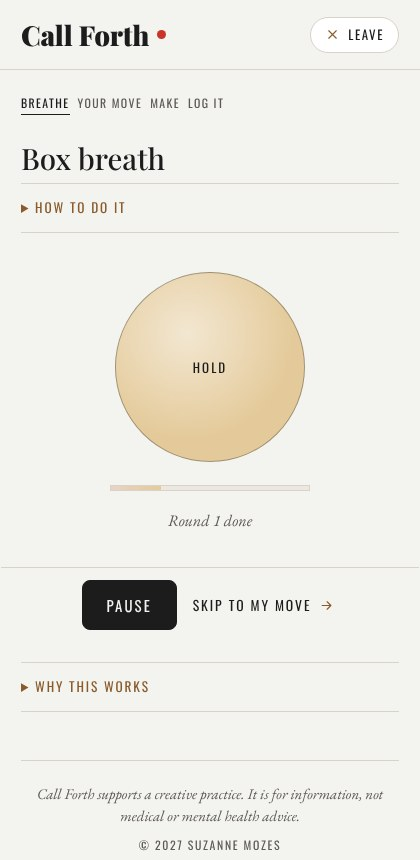
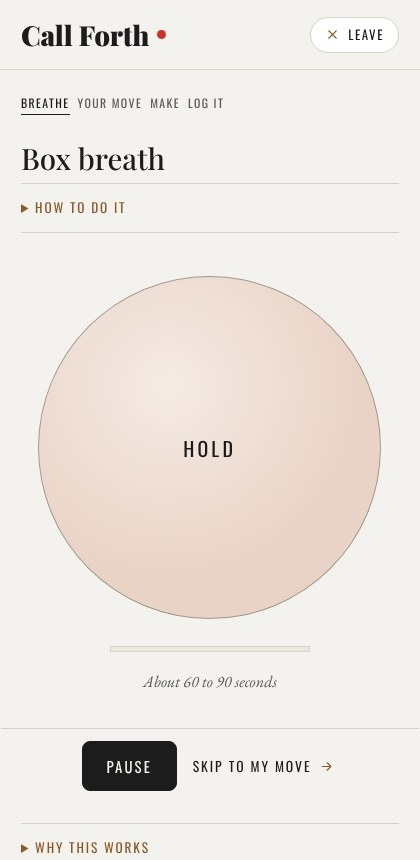
Beta feedback: bigger circle, chime on Done, choose another breath, verdigris clearing lines
Circle doubled (min(400px, 86vw)). Terra chime moves to the breath's Done.
Studio members can pick one of two other breaths per block.
Clearing lines arrive in verdigris at 0.6, 5 and 9.5s and soften to gray; tap line after the last softens.

Claude-Session: https://claude.ai/code/session_01AC3uPqKtQyPW92GmPrk1JA

Changed region(s): [[0.0929, 0.3023, 0.9286, 0.7558], [0.031, 0.8465, 0.8976, 0.9977], [0.031, 0.786, 0.65, 0.8163]]

diff --git a/prototype/index.html b/prototype/index.html
@@ -134,15 +134,23 @@
   .crumbs { display: flex; gap: 8px; flex-wrap: wrap; margin-bottom: 26px; }
   .crumbs span { font-family: var(--l); text-transform: uppercase; letter-spacing: .12em; font-size: .62rem; color: var(--muted); border-bottom: 1px solid transparent; padding-bottom: 2px; }
   .crumbs span.on { color: var(--charcoal); border-bottom-color: var(--charcoal); }
+  .alt-breath { text-align: center; margin: -14px 0 24px; }
+  .alt-open { margin-top: 2px; }
+  .alt-label { font-family: var(--l); font-size: .68rem; letter-spacing: .16em; text-transform: uppercase; color: var(--muted); margin-bottom: 12px; }
+  .alt-cards { display: grid; grid-template-columns: 1fr 1fr; gap: 12px; text-align: left; margin-bottom: 6px; }
+  .alt-card { font: inherit; color: inherit; cursor: pointer; background: var(--panel); border: 1px solid var(--stone); padding: 16px 18px; text-align: left; }
+  .alt-card:hover, .alt-card:focus-visible { border-color: var(--charcoal); }
+  .alt-card .t { font-family: var(--h); font-size: 1.15rem; line-height: 1.2; }
+  .alt-card .d { font-size: .95rem; color: var(--muted); margin-top: 4px; }
   .breath { display: flex; flex-direction: column; align-items: center; gap: 18px; margin: 34px 0; }
-  .circle { width: 200px; height: 200px; border: 1px solid var(--charcoal); border-radius: 50%; display: flex; align-items: center; justify-content: center; transform: scale(.6); transition: transform 4s ease-in-out; background: var(--panel); }
+  .circle { width: min(400px, 86vw); height: min(400px, 86vw); border: 1px solid var(--charcoal); border-radius: 50%; display: flex; align-items: center; justify-content: center; transform: scale(.6); transition: transform 4s ease-in-out; background: var(--panel); }
   /* The circle carries the timer bar's dawn-to-dusk colors: it starts blush and deepens round by round toward dusk blue */
   .circle { background-color: #EFE3DA; background-image: radial-gradient(circle at 38% 32%, rgba(255,255,255,.55), rgba(255,255,255,0) 62%); border-color: rgba(28,28,28,.35);
     transition-property: transform, background-color; }
   body.dark .circle { filter: brightness(.82) saturate(.9); border-color: rgba(237,233,226,.25); }
   body.dark .circle span { color: #1C1C1C; }
-  .circle span { font-family: var(--l); text-transform: uppercase; letter-spacing: .16em; font-size: .72rem; }
-  .circle span.count { font-family: var(--h); font-size: 3.4rem; letter-spacing: 0; line-height: 1; }
+  .circle span { font-family: var(--l); text-transform: uppercase; letter-spacing: .16em; font-size: 1.1rem; }
+  .circle span.count { font-family: var(--h); font-size: 6rem; letter-spacing: 0; line-height: 1; }
   details { border-top: 1px solid var(--stone); border-bottom: 1px solid var(--stone); padding: 14px 0; margin: 20px 0; }
   summary { cursor: pointer; font-family: var(--l); text-transform: uppercase; letter-spacing: .14em; font-size: .7rem; color: var(--bronze); }
   details p { margin-top: 12px; }
@@ -155,8 +163,10 @@
   .cue { cursor: pointer; padding: 10px 0 18px; }
   .cue1 .big { font-family: var(--h); font-weight: 900; font-size: clamp(3rem, 11vw, 5.6rem); line-height: 1.02; letter-spacing: -.01em; margin: 0; }
   .cue1 .small { font-family: var(--b); font-style: italic; font-size: clamp(1.2rem, 3.4vw, 1.6rem); color: var(--muted); margin: 22px 0 0; }
-  .cue2 p { font-family: var(--b); font-style: italic; font-weight: 400; font-size: clamp(2rem, 6.6vw, 3.5rem); line-height: 1.15; margin: 0 0 .45em; opacity: 0; transform: translateY(6px); transition: opacity 1.4s ease, transform 1.4s ease; }
+  .cue2 p { font-family: var(--b); font-style: italic; font-weight: 400; font-size: clamp(2rem, 6.6vw, 3.5rem); line-height: 1.15; margin: 0 0 .45em; opacity: 0; transform: translateY(6px); color: #2E8A7E; transition: opacity 1.4s ease, transform 1.4s ease, color 1.6s ease; }
   .cue2 p.in { opacity: 1; transform: none; }
+  .cue2 p.past { color: #B4AEA5; }
+  body.dark .cue2 p { color: #6CC0B3; } body.dark .cue2 p.past { color: #6B655D; }
   .cue .hint { font-family: var(--l); font-style: normal; font-size: .72rem; letter-spacing: .16em; text-transform: uppercase; color: var(--muted); margin-top: 2.2em; transition: opacity 1.2s ease; }
   .cue2 { cursor: default; } .cue2 .hint { opacity: 0; } .cue2.ready { cursor: pointer; } .cue2.ready .hint { opacity: 1; }
   .prompt .label { font-size: .9rem; letter-spacing: .2em; }
@@ -427,6 +437,15 @@
           <div class="circle" id="circle"><span id="circle-word">Ready</span></div>
           <div class="breath-progress"><span id="audio-fill"></span></div>
           <div class="note" id="breath-count">About 60 to 90 seconds</div>
+        </div>
+        <!-- Studio members only: two other breaths for this block -->
+        <div class="alt-breath" id="alt-breath" style="display:none">
+          <button class="pill" id="alt-toggle" onclick="openAltBreaths()">Prefer a different breath? <svg class="ic" viewBox="0 0 24 24" aria-hidden="true"><path d="M6 9l6 6 6-6"/></svg></button>
+          <div class="alt-open" id="alt-open" style="display:none">
+            <div class="alt-label">Two other breaths for today</div>
+            <div class="alt-cards" id="alt-cards"></div>
+            <button class="quiet" id="alt-keep" onclick="keepBreath()">Keep this breath</button>
+          </div>
         </div>
         <div class="actions thumb" style="justify-content:center">
           <button class="btn" id="breath-btn" onclick="toggleBreath()">Pause</button>
@@ -1306,18 +1325,21 @@ async function keepAwake(on){
 }
 document.addEventListener('visibilitychange', () => { if (document.visibilityState === 'visible' && document.body.classList.contains('focus')) { state.wake = null; keepAwake(true); } });
 /* Your move: show the cue, then hand over to the prompt (CSS does the timing). */
-/* Your move, in three stages. Stage 1 for 4s (tap to go on sooner). Stage 2 holds at least 15s and can't be tapped past:
-   its three lines arrive at 0.6s, 4s and 7.5s, and at 15s "Tap when you're ready" appears and it waits for that tap. Then 3 stays.
+/* Your move, in three stages. Stage 1 for 4s (tap to go on sooner). Stage 2 can't be tapped past: its three lines arrive
+   in verdigris at 0.6s, 5s and 9.5s, each earlier line softening to light gray as the next arrives; the last softens 10s
+   after it arrives (19.5s), and then "Tap when you're ready" appears and it waits for that tap. Then 3 stays.
    A different Koshi chime marks each stage: Terra (ground), Aqua (clear), Ignis (begin). Plays once per session;
    coming back from "Try something else" goes straight to the move. */
-const CUE_CHIMES = ['terra','aqua','ignis'], CUE_HOLD = 4000, CLEAR_MIN = 15000;
+const CUE_CHIMES = ['terra','aqua','ignis'], CUE_HOLD = 4000, CLEAR_LINES = [600, 5000, 9500], CLEAR_LAST = 10000;
 function cueShow(n){
   state.cueStage = n; (state.cueTs || []).forEach(clearTimeout); state.cueTs = [];
   [1,2,3].forEach(i => $('cue'+i).classList.toggle('on', i === n));
-  if (state.cueChime !== false) koshiChime(CUE_CHIMES[n-1]);
+  // Terra marks the end of the breath ('Done'); stage 1 only plays it when the breath was skipped.
+  if (state.cueChime !== false && !(n === 1 && state.doneChimeSid === state.sid)) koshiChime(CUE_CHIMES[n-1]);
   if (n === 2) { const c = $('cue2'), ps = c.querySelectorAll('p'); c.classList.remove('ready'); ps.forEach(p => p.classList.remove('in'));
-    [600, 4000, 7500].forEach((ms, i) => state.cueTs.push(setTimeout(() => ps[i] && ps[i].classList.add('in'), ms)));
-    state.cueTs.push(setTimeout(() => c.classList.add('ready'), CLEAR_MIN)); }
+    ps.forEach(p => p.classList.remove('past'));
+    CLEAR_LINES.forEach((ms, i) => state.cueTs.push(setTimeout(() => { if (ps[i-1]) ps[i-1].classList.add('past'); if (ps[i]) ps[i].classList.add('in'); }, ms)));
+    state.cueTs.push(setTimeout(() => { const last = ps[ps.length-1]; if (last) last.classList.add('past'); c.classList.add('ready'); }, CLEAR_LINES[CLEAR_LINES.length-1] + CLEAR_LAST)); }
   if (n === 1) state.cueTs.push(setTimeout(() => cueShow(2), CUE_HOLD));
   track('move_stage', { stage: n });
 }
@@ -1351,13 +1373,43 @@ function startBreath(){
     c.style.backgroundColor = duskColor((rounds + i/pat.length) / (BREATHS[state.breath].rounds || 6));
     c.style.transform = word === 'Sip' ? 'scale(1.05)' : word.startsWith('In') ? 'scale(.95)' : word === 'Hold' ? c.style.transform : 'scale(.6)';
     i = (i+1) % pat.length; if (i === 0) { rounds++; $('breath-count').textContent = `Round ${rounds} done`; $('audio-fill').style.width = (rounds/(BREATHS[state.breath].rounds||6)*100)+'%'; }
-    if (rounds >= (BREATHS[state.breath].rounds || 6)) { stopBreath(); $('circle-word').textContent = 'Done'; setTimeout(()=>{ if(state.step==='breathe') setStep('move'); }, 1200); return; }
+    if (rounds >= (BREATHS[state.breath].rounds || 6)) { stopBreath(); $('circle-word').textContent = 'Done'; koshiChime('terra'); state.doneChimeSid = state.sid; setTimeout(()=>{ if(state.step==='breathe') setStep('move'); }, 1200); return; }
     state.btid = setTimeout(tick, secs*1000);
   };
   tick();
 }
 function stopBreath(){ state.breathing = false; clearTimeout(state.btid); if (state.breath) $('breath-btn').textContent = breathLabel(); }
 /* One breath per session. Studio members get the breath that has helped them most for this block; everyone else gets the block's breath. */
+/* Studio: two other breaths per block, chosen by intention [Suz to confirm]. If a member's learned breath is showing,
+   the block's own breath is offered first. Picking one restarts the countdown with that breath. */
+const ALT_BREATHS = { teeth:['exhale','belly'], blank:['exhale','box'], next:['box','vagal'], real:['lion','pursed'],
+  mood:['bee','box'], tired:['lion','box'], over:['bee','exhale'], under:['bee','box'] };
+const ALT_LINE = { box:'In 4, hold 4, out 4, hold 4. Steady and even.', vagal:'In, a sip more, then a long sigh out.', lion:'In, then a big "haaa." Shakes it loose.',
+  bee:'In, then a low hum out. Quiets the noise.', four78:'In 4, hold 7, out 8. Deeply settling.', belly:'In 4, out 6. Slow and low, into the belly.',
+  exhale:'In 4, out 8. Settles a keyed-up body.', pursed:'In 2, out 4 through pursed lips. Slows things down.' };
+function altBreaths(){
+  const blk = BLOCKS.find(b => b.id === state.block); if (!blk) return [];
+  let list = (ALT_BREATHS[blk.id] || []).slice();
+  if (blk.breath !== state.breath) list = [blk.breath, ...list];
+  return list.filter((b, i) => b !== state.breath && BREATHS[b] && list.indexOf(b) === i).slice(0, 2);
+}
+function renderAltBreath(){
+  const box = $('alt-breath'), alts = altBreaths();
+  box.style.display = (state.member && alts.length) ? 'block' : 'none';
+  $('alt-open').style.display = 'none'; $('alt-toggle').style.display = '';
+  $('alt-keep').textContent = 'Keep the ' + BREATHS[state.breath].short;
+  $('alt-cards').innerHTML = alts.map(b => `<button class="alt-card" onclick="switchBreath('${b}')"><div class="t">${BREATHS[b].name}</div><div class="d">${ALT_LINE[b] || ''}</div></button>`).join('');
+}
+function openAltBreaths(){
+  if (state.counting) cancelCountdown(); else if (state.breathing) stopBreath();
+  $('alt-toggle').style.display = 'none'; $('alt-open').style.display = 'block';
+  track('alt_breath_opened', { breath: state.breath });
+}
+function keepBreath(){ $('alt-open').style.display = 'none'; $('alt-toggle').style.display = ''; if (!state.breathStarted) autoBreath(); }
+function switchBreath(id){
+  track('breath_switched', { from: state.breath, to: id });
+  setBreath(id); renderAltBreath(); autoBreath();
+}
 function chooseBreath(block){
   const fallback = blockById(block).breath;
   if (!state.member || !state.showHistory) return fallback;
@@ -1374,6 +1426,7 @@ function setBreath(id){
   $('audio-fill').style.width = '0';
   $('circle-word').textContent = 'Ready'; $('circle').style.transform = 'scale(.6)'; $('circle').style.backgroundColor = ''; $('breath-count').textContent = 'About 60 to 90 seconds';
   $('breath-btn').textContent = breathLabel();
+  renderAltBreath();
 }
 
 /* try something else */

diff --git a/components/BreathCircle.tsx b/components/BreathCircle.tsx
@@ -10,7 +10,8 @@
  *   (blush -> ochre -> sage -> teal -> dusk blue), lit softly from the upper left.
  * - A small progress bar in the same palette fills one step per round; "Round N done" below.
  * - Main button: "Pause" (during the countdown or breath), then "Begin again" (replays the chime and restarts).
- * - When all rounds are done it shows "Done" and calls onComplete() after 1.2s.
+ * - When all rounds are done it shows "Done", plays the Terra chime (the cue that the page is about to change)
+ *   and calls onComplete() after 1.2s.
  * - Reduced motion: no growing or shrinking, the words and colors still guide the breath.
  *
  * Usage (the breath's timing comes from the app's content file, src/lib/content.ts,
@@ -100,7 +101,7 @@ export default function BreathCircle({ timing, onComplete, onSkip }: {
       if (i === 0) { r += 1; setRounds(r); }
       if (r >= b.rounds) {
         timer.current = window.setTimeout(() => {
-          setMode('done'); setWord('Done');
+          setMode('done'); setWord('Done'); playKoshi('terra');
           timer.current = window.setTimeout(() => doneRef.current(), 1200);
         }, secs * 1000);
         return;
@@ -143,7 +144,7 @@ export default function BreathCircle({ timing, onComplete, onSkip }: {
       <div
         aria-live="polite"
         style={{
-          width: 200, height: 200, borderRadius: '50%',
+          width: 'min(400px, 86vw)', height: 'min(400px, 86vw)', borderRadius: '50%',
           border: '1px solid rgba(28,28,28,.35)',
           backgroundColor: color,
           backgroundImage: 'radial-gradient(circle at 38% 32%, rgba(255,255,255,.55), rgba(255,255,255,0) 62%)',
@@ -153,8 +154,8 @@ export default function BreathCircle({ timing, onComplete, onSkip }: {
         }}
       >
         <span style={isCount
-          ? { fontFamily: '"Playfair Display", serif', fontSize: '3.4rem', lineHeight: 1, color: '#1C1C1C' }
-          : { fontFamily: 'Oswald, sans-serif', textTransform: 'uppercase', letterSpacing: '.16em', fontSize: '.72rem', color: '#1C1C1C' }}>
+          ? { fontFamily: '"Playfair Display", serif', fontSize: '6rem', lineHeight: 1, color: '#1C1C1C' }
+          : { fontFamily: 'Oswald, sans-serif', textTransform: 'uppercase', letterSpacing: '.16em', fontSize: '1.1rem', color: '#1C1C1C' }}>
           {word}
         </span>
       </div>

diff --git a/components/breaths.ts b/components/breaths.ts
@@ -93,3 +93,28 @@ export const BLOCK_BREATH = {
   "I'm understimulated": 'lion',
   "My inner critic is too loud": 'pursed', // later door, not shown yet
 };
+
+/** Studio members only: two other breaths offered for each block ("Prefer a different breath?"). [Suz to confirm]
+ *  If a member's learned breath is showing instead of the block's own, offer the block's own breath first. */
+export const ALT_BREATHS = {
+  "I'd rather pull my teeth out": ['exhale', 'belly'],
+  "I'm afraid of the white, blank space": ['exhale', 'box'],
+  "I don't know what comes next": ['box', 'vagal'],
+  "I'm not a real artist": ['lion', 'pursed'],
+  "I'm not in the mood": ['bee', 'box'],
+  "I'm exhausted": ['lion', 'box'],
+  "I'm overstimulated": ['bee', 'exhale'],
+  "I'm understimulated": ['bee', 'box'],
+};
+
+/** One short line for each breath on its choice card. */
+export const ALT_LINE = {
+  box: 'In 4, hold 4, out 4, hold 4. Steady and even.',
+  vagal: 'In, a sip more, then a long sigh out.',
+  lion: 'In, then a big "haaa." Shakes it loose.',
+  bee: 'In, then a low hum out. Quiets the noise.',
+  four78: 'In 4, hold 7, out 8. Deeply settling.',
+  belly: 'In 4, out 6. Slow and low, into the belly.',
+  exhale: 'In 4, out 8. Settles a keyed-up body.',
+  pursed: 'In 2, out 4 through pursed lips. Slows things down.',
+};

diff --git a/docs/App Brief.md b/docs/App Brief.md
@@ -6,7 +6,7 @@ The full written spec: every screen, rule, piece of content and tracked event. T
 - **Who it's for:** Writers, artists, musicians and makers who keep losing to the blank page, the mood or the critic.
 - **The one job:** Get a creator from blocked to making in minutes, matched to what's in the way today.
 - **Design principle:** spend as little time in the app as possible. The person makes one real choice (their block); Call Forth makes the rest. Goal: from opening the app to the timer running in two taps and under two minutes.
-- **Ease rules (from opening the app to the timer, with confidence):** returning artists open straight to Home (stay signed in on the device; sign in by emailed link, no password; installable on the phone's home screen and quick to load on a weak connection) · the breath starts by itself after a 3-second countdown · the move page first shows "Get your work open first.", then a 15-second pause to clear the work space, then the prompt · the screen stays awake for the whole session · on phones each step's main button sits at the bottom, in thumb reach · gentle fades between steps (off for reduced motion) · "Straight to making" for days they arrive ready · Suz's moves stay under 40 words, opening with a short instruction.
+- **Ease rules (from opening the app to the timer, with confidence):** returning artists open straight to Home (stay signed in on the device; sign in by emailed link, no password; installable on the phone's home screen and quick to load on a weak connection) · the breath starts by itself after a 3-second countdown · the move page first shows "Get your work open first.", then a pause of about 20 seconds to clear the work space, then the prompt · the screen stays awake for the whole session · on phones each step's main button sits at the bottom, in thumb reach · gentle fades between steps (off for reduced motion) · "Straight to making" for days they arrive ready · Suz's moves stay under 40 words, opening with a short instruction.
 - **First working version:** https://claude.ai/artifact/VH1qcHenhMRpKqCPX9Bz5L
 
 **Screens (version one)**
@@ -15,8 +15,8 @@ The full written spec: every screen, rule, piece of content and tracked event. T
 3. **Welcome (first time, and via "How it works"):** three steps: tell me what's in the way; breathe, then take your move; make the thing, then log it.
 4. **Home:** a greeting and a question that change every sign-on (see "Greetings and questions" below). The bronze greeting with their name is set larger than other labels (about 1rem Oswald capitals), with generous space (about 18px) before the question headline. Eight block cards: 3 free (no label), 5 studio (small label "Full studio" when locked, "Studio" for members; tapping a locked one goes to Studio). Under the question, one quiet italic line: "About two minutes from here to making." On every third visit (and only with log history on), one line from their own past log appears under that, in small italics with a bronze tag: "Rewrote the opening paragraph." YOU, LAST TUESDAY. Below the blocks, a verdigris "straight to making" link, a little larger than the other quiet labels: an italic Playfair phrase that changes every visit (never the same twice in a row) followed by "STRAIGHT TO MAKING →". The phrases: I feel pretty good today. · I'm in a good mood. · No complaints. · I've got oodles of energy. · Let's do this. · I've got this. It skips the block and breath and starts the timer at their usual length (logged as "Nothing in the way"). Nothing else to browse: no "coming soon" cards, no stats (those live in the Log). "How it works" lives in the footer.
 5. **Session (focus mode):** four steps with a step indicator. The menu disappears for the whole session; the header shows only the wordmark (not clickable) and a small "× Leave" pill at the top right. No upsells, locks or studio invitations appear inside a session. The screen stays awake for the whole session. On phones, each step's main button is pinned to the bottom of the screen. Steps fade in gently. The session pages never name the block they chose.
-   - **Breathe:** one breath, already chosen (studio members who've had a breath help with this block get that breath, with one quiet line above it: "Last time, the [breath] helped."). Breath name, how-to (after they've done that breath 3 times, the how-to folds into a small "How to do it"), animated circle with a small progress bar. The circle and its progress bar share the timer's dawn-to-dusk colors: the circle starts blush and deepens round by round through ochre and sage toward dusk blue, softly lit from the upper left, so the breath and the making feel like one arc. The breath starts by itself: the circle shows a large 3, 2, 1 with "Breathing with you in 3…", then begins (no voice). As the countdown begins, a soft Koshi wind chime plays, its tuning matched to the breath's intention: Box breath → Aria (air, mental clarity; A C E A B C E B), Vagal nerve breath → Terra (earth, grounding; G C E F G C E G), Lion's breath → Ignis (fire, transformation; G B D G B D G A), Bumble bee hum → Aqua (water, emotional release; A D F G A D F A), 4-7-8 breathing → Aqua, Diaphragmatic breathing → Terra, Extended exhale → Aqua, Pursed-lip breathing → Aria. Each is built in the browser (no sound files) an octave below the real chime: eight steel-rod notes, a soft pass of five notes over about two seconds that rings out by about 3.5 seconds, so it fills the countdown and fades as the breath begins. It plays quietly, softer than the timer's bowl. (Koshi's "grounding," "release," "clarity" and "transformation" describe each chime's mood, not proven effects; no health claims.) The main button reads "Pause" (after pausing: "Begin again"), "Skip to my move →" (quiet label), and a small collapsed "Why this works" with sources. When the breath ends, it moves on to Your move by itself. No choosing between breaths. Circle words follow each breath: In / Sip / Hold / Out / Haaa / Hum / Whoosh / Release; alternate nostril shows "In · left", "Out · right" and so on. Each breath has its own number of rounds.
-   - **Your move:** three stages, each alone on the screen, set large to catch the eye, each in its own typeface and marked by its own soft Koshi chime (the same browser-built chimes as the breath), so the eye and ear register that something new has arrived. Each stage fades out over about 0.6 seconds as the next fades and rises in. (1) **"Get your work open first."** in heavy Playfair Display (900 weight, about 3rem on a phone up to 5.6rem on a computer), with a smaller italic line beneath, "The file, the sketchbook, the instrument.", and a small "Tap when you're ready" label (Oswald capitals). Chime: Terra. It holds about 4 seconds, or a tap moves on sooner. (2) **Clearing the space**, in large italic EB Garamond (about 2rem on a phone up to 3.5rem), three lines arriving one at a time (at about 0.6, 4 and 7.5 seconds): "Close all the tabs that are open on your laptop." · "Put away your to-do lists." · "Take a moment to clear your work space." Chime: Aqua. It stays at least 15 seconds and can't be tapped past; at 15 seconds "Tap when you're ready" fades in, and it waits for that tap. (3) **Your move**: a larger "Your move" label, then the craft prompt for the block (under 40 words) in Fraunces (regular weight, about 2rem on a phone up to 3rem). Chime: Ignis. It stays. The stages fill most of the screen (about 60% of its height). The buttons stay in place the whole time, so someone ready can start at any stage: main button "My work is open. Start." (starts the timer immediately), or "Try something else". The sequence plays once per session: coming back from "Try something else" goes straight to the move, with no chimes. Leaving the step stops any chime still to come. With reduced motion the fades are instant.
+   - **Breathe:** one breath, already chosen (studio members who've had a breath help with this block get that breath, with one quiet line above it: "Last time, the [breath] helped."). Breath name, how-to (after they've done that breath 3 times, the how-to folds into a small "How to do it"), a large animated circle (about 400px across on a computer, nearly the full width of a phone: min(400px, 86vw); its words set large, the 3-2-1 countdown at about 6rem) with a small progress bar. The circle and its progress bar share the timer's dawn-to-dusk colors: the circle starts blush and deepens round by round through ochre and sage toward dusk blue, softly lit from the upper left, so the breath and the making feel like one arc. The breath starts by itself: the circle shows a large 3, 2, 1 with "Breathing with you in 3…", then begins (no voice). As the countdown begins, a soft Koshi wind chime plays, its tuning matched to the breath's intention: Box breath → Aria (air, mental clarity; A C E A B C E B), Vagal nerve breath → Terra (earth, grounding; G C E F G C E G), Lion's breath → Ignis (fire, transformation; G B D G B D G A), Bumble bee hum → Aqua (water, emotional release; A D F G A D F A), 4-7-8 breathing → Aqua, Diaphragmatic breathing → Terra, Extended exhale → Aqua, Pursed-lip breathing → Aria. Each is built in the browser (no sound files) an octave below the real chime: eight steel-rod notes, a soft pass of five notes over about two seconds that rings out by about 3.5 seconds, so it fills the countdown and fades as the breath begins. It plays quietly, softer than the timer's bowl. (Koshi's "grounding," "release," "clarity" and "transformation" describe each chime's mood, not proven effects; no health claims.) The main button reads "Pause" (after pausing: "Begin again"), "Skip to my move →" (quiet label), and a small collapsed "Why this works" with sources. When the breath ends, the circle says "Done" and the Terra chime plays, the signal that the page is about to change; about a second later it moves on to Your move by itself. **Choosing another breath (studio members only):** under the circle, one small pill, "Prefer a different breath? ⌄". Tapping it pauses the breath and opens "Two other breaths for today": two cards, each with the breath's name and one short line (e.g. Extended exhale: "In 4, out 8. Settles a keyed-up body."), and a quiet "Keep the [breath]" that closes it and carries on. Choosing a card switches to that breath and starts its 3-2-1 countdown. The two come from a set pair for each block, chosen by intention (teeth: Extended exhale, Diaphragmatic · blank space: Extended exhale, Box · what comes next: Box, Vagal · not a real artist: Lion's, Pursed-lip · not in the mood: Bumble bee hum, Box · exhausted: Lion's, Box · overstimulated: Bumble bee hum, Extended exhale · understimulated: Bumble bee hum, Box) [Suz to confirm]; if a member's learned breath is showing, the block's own breath is offered first. Free users don't see the pill. Circle words follow each breath: In / Sip / Hold / Out / Haaa / Hum / Whoosh / Release; alternate nostril shows "In · left", "Out · right" and so on. Each breath has its own number of rounds.
+   - **Your move:** three stages, each alone on the screen, set large to catch the eye, each in its own typeface and marked by its own soft Koshi chime (the same browser-built chimes as the breath), so the eye and ear register that something new has arrived. Each stage fades out over about 0.6 seconds as the next fades and rises in. (1) **"Get your work open first."** in heavy Playfair Display (900 weight, about 3rem on a phone up to 5.6rem on a computer), with a smaller italic line beneath, "The file, the sketchbook, the instrument.", and a small "Tap when you're ready" label (Oswald capitals). Chime: none here when they arrive from a finished breath (its "Done" already rang Terra); Terra plays here only if they skipped the breath. It holds about 4 seconds, or a tap moves on sooner. (2) **Clearing the space**, in large italic EB Garamond (about 2rem on a phone up to 3.5rem), three lines arriving one at a time (at about 0.6, 5 and 9.5 seconds): "Close all the tabs that are open on your laptop." · "Put away your to-do lists." · "Take a moment to clear your work space." Each new line arrives in verdigris (#2E8A7E; #6CC0B3 in the dark room), and as the next one arrives, the earlier line softens to light gray (#B4AEA5; #6B655D in the dark room) over about 1.6 seconds, so it's always clear which line is new. The last line softens 10 seconds after it arrives (about 19.5 seconds in); then "Tap when you're ready" fades in, and it waits for that tap. Chime: Aqua. It can't be tapped past before then. (3) **Your move**: a larger "Your move" label, then the craft prompt for the block (under 40 words) in Fraunces (regular weight, about 2rem on a phone up to 3rem). Chime: Ignis. It stays. The stages fill most of the screen (about 60% of its height). The buttons stay in place the whole time, so someone ready can start at any stage: main button "My work is open. Start." (starts the timer immediately), or "Try something else". The sequence plays once per session: coming back from "Try something else" goes straight to the move, with no chimes. Leaving the step stops any chime still to come. With reduced motion the fades are instant.
    - **Something else (its own page):** "Two ways in. Pick one." Two large choice cards: one body option and one mind option, suited to their block (the page doesn't name it), never repeating what they've been offered this session. Free users choose from Another prompt, Mantra and Exercise reset; studio members from all 14. No locked cards, no reshuffle. Choosing a card opens its content below (audio in Suz's voice where it has some, instructions, then "When you're done, get your work open." and "My work is open. Start.", which starts the timer). "← Back to my move" (quiet label) sits at the top of the page. One line at the bottom: "Why only two? When you're stuck, fewer choices make it easier to start." (The full research note lives on the About page.)
    - **Make:** the timer is already running when they arrive, at their usual length (default 15 min) and sound. A warm singing-bowl tone marks the start (made in the browser, no sound file: a low 220 Hz note with gently beating partials, a slow 0.18-second bloom, a long 5-second fade and softened highs, played quietly). They can show the clock (big numbers) or the dawn-to-dusk bar: a wide band, about 64px tall, across the screen under "Make the thing." that fills left to right as time passes, its color shifting from blush through ochre and sage to dusk blue (#E9D3C6 → #E3C892 → #B9C49A → #8DBAB0 → #6E9FAE), with a soft feathered leading edge and a small italic line beneath ("9 min left"; hidden for people who've turned off their numbers, so the color alone tells the time). People who've turned off "Show my numbers" always get the bar. In the dark room the bar is gently dimmed. When time is up the same bowl sounds twice, softer, 1.6 seconds apart, the clock disappears, and the page says "Time." and "Keep going if you're in it." with Keep going (solid) and I'm done (outline). Nothing moves on by itself. Keep going switches to a quiet bronze count-up past the planned length, marked "Still going" (in bar view the bar stays full and the line beneath reads "Still going"); the log records the real minutes. Pause / Resume (solid) beside "I'm done" (outline). Below them, a status pill shows the current setting ("15 min · Silence ⌄"; free users see "15 min ⌄") and opens 5 / 15 / 25 min, (studio only) Silence / Rain on glass / Studio hum, and Show the clock / Show the bar; Call Forth remembers the choice.
    - **Log it:** "What did you make? A line or two, if you like." (optional text box), "How did it go? Tap to save." with three buttons in verdigris, most saturated on the left: It helped (#2E8A7E, light text) · A little (#9CCBC2) · Not today (#EEF4F2, nearly the plain button). On a phone the three sit in one row; one tap saves and opens the Daily light page. "Skip →" (quiet label) goes to the Daily light page without saving. No consult panel here.
@@ -56,7 +56,7 @@ The full written spec: every screen, rule, piece of content and tracked event. T
 
 **Daily light designs** (8, rotating with the lines): yellow + tomato sun, Abril Fatface · cobalt + pink and yellow blobs, Fraunces italic · mint + coral squiggles, Caveat handwriting · tomato + yellow confetti, Bebas Neue capitals · blush + green moons, DM Serif Display · charcoal + yellow stars, Space Grotesk · green + pink and yellow waves, Fraunces bold · lilac + red and cobalt cutouts, DM Serif italic.
 
-**Usage history (database):** every step is saved as one row in an "events" table, for later analysis by algorithm to serve people better (e.g. reorder blocks, suggest a better breath or move for someone's patterns). Each row: timestamp, user id, session id, event name, details. Events: registered (categories, custom tags) · screen_viewed (screen) · block_chosen (block) · locked_block_tapped (block) · step_reached (breathe, move, flow, log; seconds since choosing a block) · breath_started (breath; started by the countdown or by hand) · move_stage (1, 2 or 3: which Your move stage is showing) · straight_to_making (which phrase was showing) · something_else_offered (the two options) · something_else (option) · timer_started (minutes, sound, seconds from choosing a block) · timer_length (minutes) · session_left (step) · log_skipped · time_up (planned minutes) · keep_going · timer_view (clock or bar) · timer_finished (planned, actual minutes, whether they kept going) · log_saved (whether they wrote a note, how it went, breath, what they tried; never the note itself) · log_filtered (block) · used_what_worked (breath) · upgraded (price) · consult_shown (visit number) · consult_clicked (from panel or About) · settings_changed (showNumbers or showHistory, on/off) · greeting_shown (greeting, question) · quote_shown (line, design) · another_timer (yes or not now) · hours_invite (yes or not now) · hours_set (days, time, minutes, email, calendar) · hours_removed · scheduled_slot (one per scheduled session, from the saved hours) · scheduled_open (calendar or email, minutes). Privacy: tell people at sign-up, link a short privacy note, never store their log text in this table, and let people ask for their data to be deleted.
+**Usage history (database):** every step is saved as one row in an "events" table, for later analysis by algorithm to serve people better (e.g. reorder blocks, suggest a better breath or move for someone's patterns). Each row: timestamp, user id, session id, event name, details. Events: registered (categories, custom tags) · screen_viewed (screen) · block_chosen (block) · locked_block_tapped (block) · step_reached (breathe, move, flow, log; seconds since choosing a block) · breath_started (breath; started by the countdown or by hand) · move_stage (1, 2 or 3: which Your move stage is showing) · alt_breath_opened (breath showing) · breath_switched (from, to) · straight_to_making (which phrase was showing) · something_else_offered (the two options) · something_else (option) · timer_started (minutes, sound, seconds from choosing a block) · timer_length (minutes) · session_left (step) · log_skipped · time_up (planned minutes) · keep_going · timer_view (clock or bar) · timer_finished (planned, actual minutes, whether they kept going) · log_saved (whether they wrote a note, how it went, breath, what they tried; never the note itself) · log_filtered (block) · used_what_worked (breath) · upgraded (price) · consult_shown (visit number) · consult_clicked (from panel or About) · settings_changed (showNumbers or showHistory, on/off) · greeting_shown (greeting, question) · quote_shown (line, design) · another_timer (yes or not now) · hours_invite (yes or not now) · hours_set (days, time, minutes, email, calendar) · hours_removed · scheduled_slot (one per scheduled session, from the saved hours) · scheduled_open (calendar or email, minutes). Privacy: tell people at sign-up, link a short privacy note, never store their log text in this table, and let people ask for their data to be deleted.
 
 **Buttons and links (no underlined links anywhere in the app):** three levels plus a pill. Solid (charcoal) for the one main action on a page. Outline for a real alternative (I'm done, Not now, Try something else, Done). Quiet label (small Oswald capitals with a bronze arrow, no underline, tap area at least 44px tall) for skipping or going back (Skip to my move →, ← Back to my move, Skip →, See the studio →, Remove studio hours). Pill (rounded, stone border) for small helpers and settings that show their current state (× Leave, How it works, 15 min · Silence ⌄, Settings). Real web links (sources, the start link inside emails and calendar events) stay as links.
 
